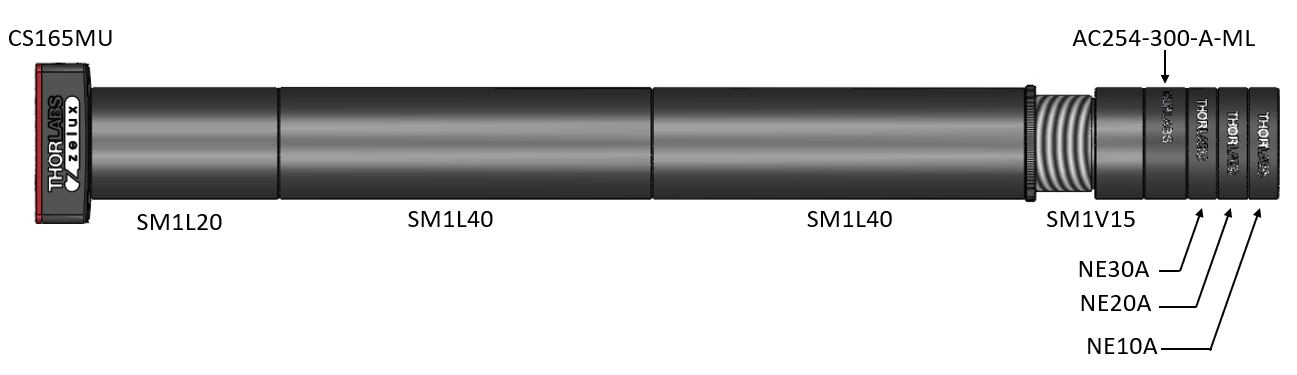
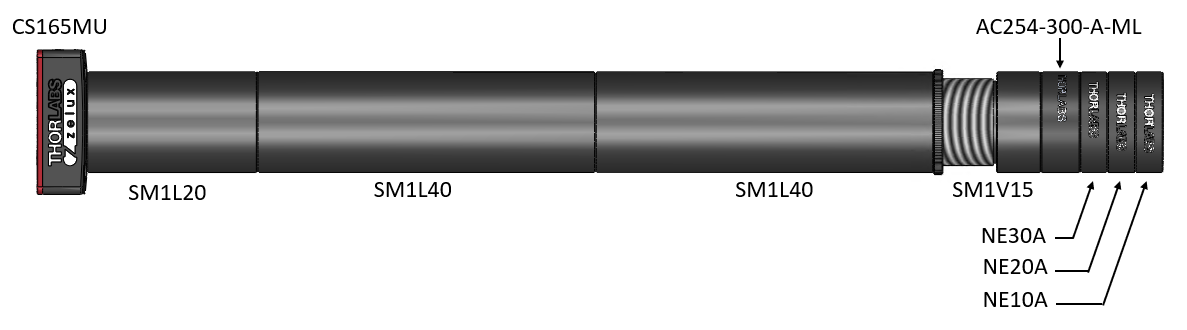
Added Motor Assembly Image
Added Motor Assembly Image

Changed region(s): [[0.0, 0.0606, 0.9975, 0.8788], [0.8104, 0.8788, 0.9351, 0.9697], [0.4987, 0.4242, 0.7169, 0.4545]]

diff --git a/Tracking Solar Telescope/Design Files/README.md b/Tracking Solar Telescope/Design Files/README.md
@@ -7,8 +7,8 @@ This solar telescope is design using all Thorlabs catalog components, with the e
 BOM:
 <ul>
 
-**Camera**	
-- CS165CU x 1
+**Monochrome Camera**	
+- CS165MU x 1 (CS165CU for Color Camera)
 
 **Lens Tubes**
 - SM1L20 x 1
@@ -57,7 +57,7 @@ BOM:
 **Lens Tube Clamps**
 - SM1RC x 2
 
-
+![Motor Assembly](https://github.com/Thorlabs/Insights_and_Applications/blob/main/Tracking%20Solar%20Telescope/Design%20Files/MotorAssembly.PNG)
 
 </ul> 
 An excel sheet is available as well: Motorized 'Tracking Assembly.xls'
